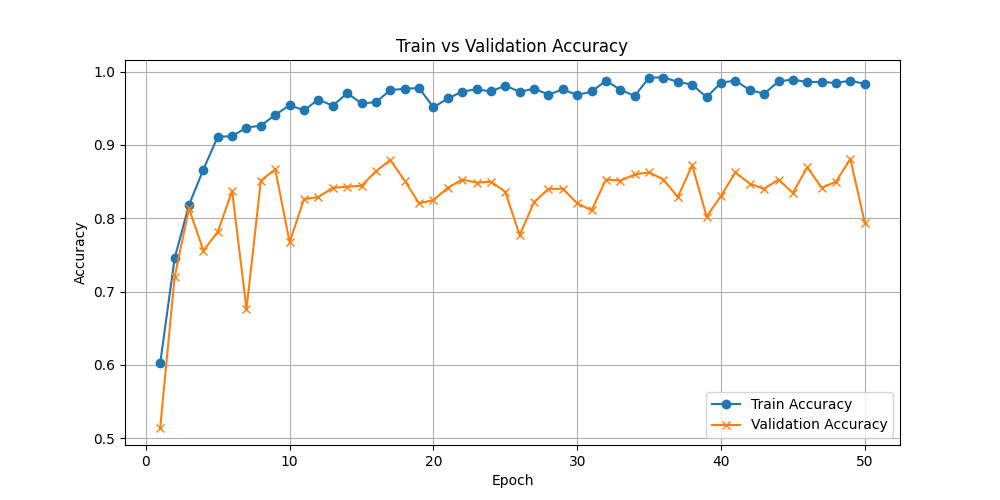
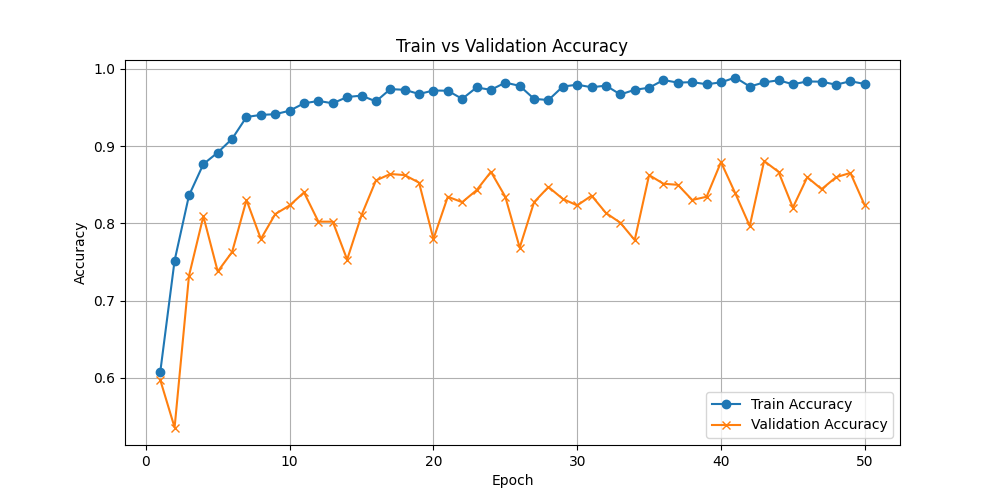
===2025/05/17=== mac

diff --git a/noRetrainOnTorch.py b/noRetrainOnTorch.py
@@ -10,13 +10,13 @@
 # | EfficientNetV2M   |                  |
 # | ConvNeXtTiny      |                  |
 # | 全訓練-50epoch------------------------------------------|
-# | MobileNetV2       | 0.8500000000000000                 |
-# | EfficientNetB0    | 0.8555555555555555                 |
-# | EfficientNetB1    | 0.8916666666666667                 |
-# | EfficientNetB7    |                  |
-# | EfficientNetV2S   |                  |
-# | EfficientNetV2M   |                  |
-# | ConvNeXtTiny      |                  |
+# | MobileNetV2       | 0.8500                             |
+# | EfficientNetB0    | 0.9000                             |
+# | EfficientNetB1    | 0.8778                             |
+# | EfficientNetB7    | 0.8611                             |
+# | EfficientNetV2S   | 0.8028                             |
+# | EfficientNetV2M   | 0.8389                             |
+# | ConvNeXtTiny      | 0.7806                             |
 # | 全訓練-200epoch-----------------------------------------|
 # | MobileNetV2       | 0.8298319327731093                 |
 # | EfficientNetB0    |                  |
@@ -156,8 +156,8 @@ x_val = DataLoader(val_dataset, batch_size=16, shuffle=False, worker_init_fn=see
 x_test = DataLoader(test_dataset, batch_size=16, shuffle=False, worker_init_fn=seed_worker, generator=g)
 
 
-#model_list = ["MobileNetV2", "EfficientNetB0", "EfficientNetB1", "EfficientNetB7", "EfficientNetV2S" , "EfficientNetV2M", "ConvNeXtTiny"]
-model_list = ["EfficientNetB7", "EfficientNetV2S" , "EfficientNetV2M", "ConvNeXtTiny"]
+model_list = ["MobileNetV2", "EfficientNetB0", "EfficientNetB1", "EfficientNetB7", "EfficientNetV2S" , "EfficientNetV2M", "ConvNeXtTiny"]
+#model_list = ["EfficientNetV2S" , "EfficientNetV2M", "ConvNeXtTiny"]
 
 for m in model_list :
 
@@ -208,21 +208,21 @@ for m in model_list :
         model_dir = model_dir + "/ConvNeXtTiny"
 
 
-    model_dir = model_dir + "/allTrain_50epochs"
+    model_dir = model_dir + "/halfFreezeHalfTrain_200epochs"
 
-    """
+    
     #全凍結
     for param in model.features.parameters():
         param.requires_grad = False
-    """
+    
 
     criterion = nn.CrossEntropyLoss()
     optimizer = optim.Adam(model.parameters(), lr=0.001)
     #scheduler = torch.optim.lr_scheduler.StepLR(optimizer, step_size=15, gamma=0.5)
 
     best_val_acc = 0.0
-    initial_epochs = 50
-    freeze_epochs = -1
+    initial_epochs = 200
+    freeze_epochs = 100
 
     train_acc_list = []
     val_acc_list = []
@@ -306,10 +306,10 @@ for m in model_list :
     macro_f1 = f1_score(y_true, y_pred, average='macro')
 
     # 螢幕輸出
-    print(f"Test Accuracy       : {test_acc:.4f}")
-    print(f"Macro Precision     : {macro_precision:.4f}")
-    print(f"Macro Recall        : {macro_recall:.4f}")
-    print(f"Macro F1-Score      : {macro_f1:.4f}")
+    #rint(f"Test Accuracy       : {test_acc:.4f}")
+    #print(f"Macro Precision     : {macro_precision:.4f}")
+    #print(f"Macro Recall        : {macro_recall:.4f}")
+    #print(f"Macro F1-Score      : {macro_f1:.4f}")
     print("Classification Report:")
     print(report)
 
@@ -318,10 +318,10 @@ for m in model_list :
     os.makedirs(model_dir, exist_ok=True)
     report_path = os.path.join(model_dir, "metric_report.txt")
     with open(report_path, "w") as f:
-        f.write(f"Test Accuracy: {test_acc:.4f}\n")
-        f.write(f"Macro Precision : {macro_precision:.4f}\n")
-        f.write(f"Macro Recall    : {macro_recall:.4f}\n")
-        f.write(f"Macro F1-Score  : {macro_f1:.4f}\n")
+    #    f.write(f"Test Accuracy: {test_acc:.4f}\n")
+    #    f.write(f"Macro Precision : {macro_precision:.4f}\n")
+    #    f.write(f"Macro Recall    : {macro_recall:.4f}\n")
+    #    f.write(f"Macro F1-Score  : {macro_f1:.4f}\n")
         f.write("Classification Report:\n")
         f.write(report + "\n")
 
